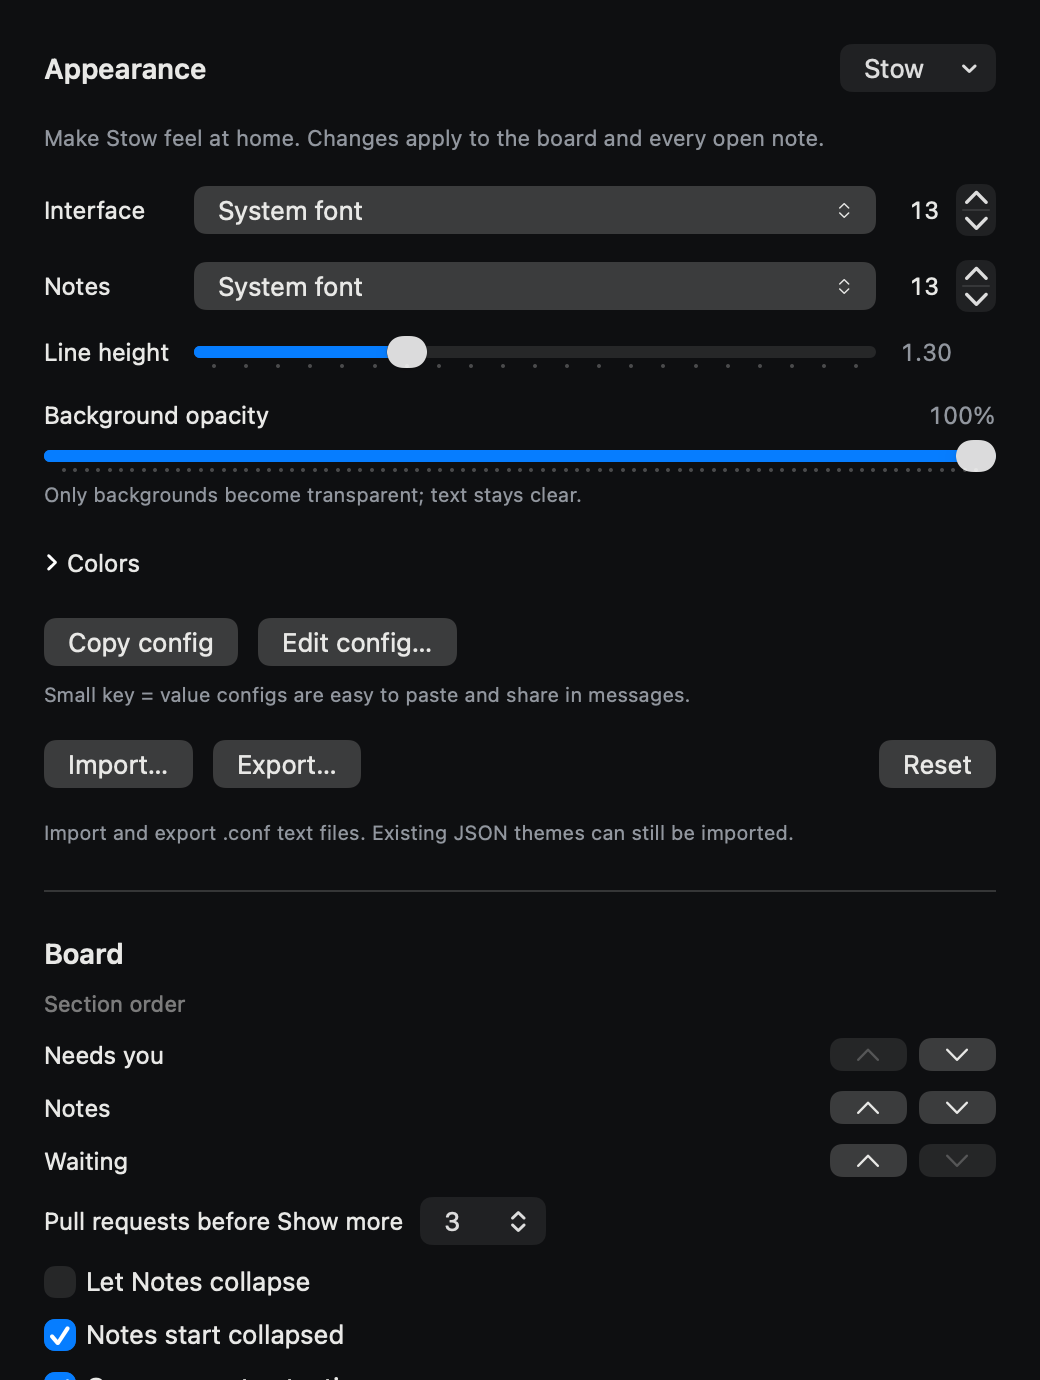
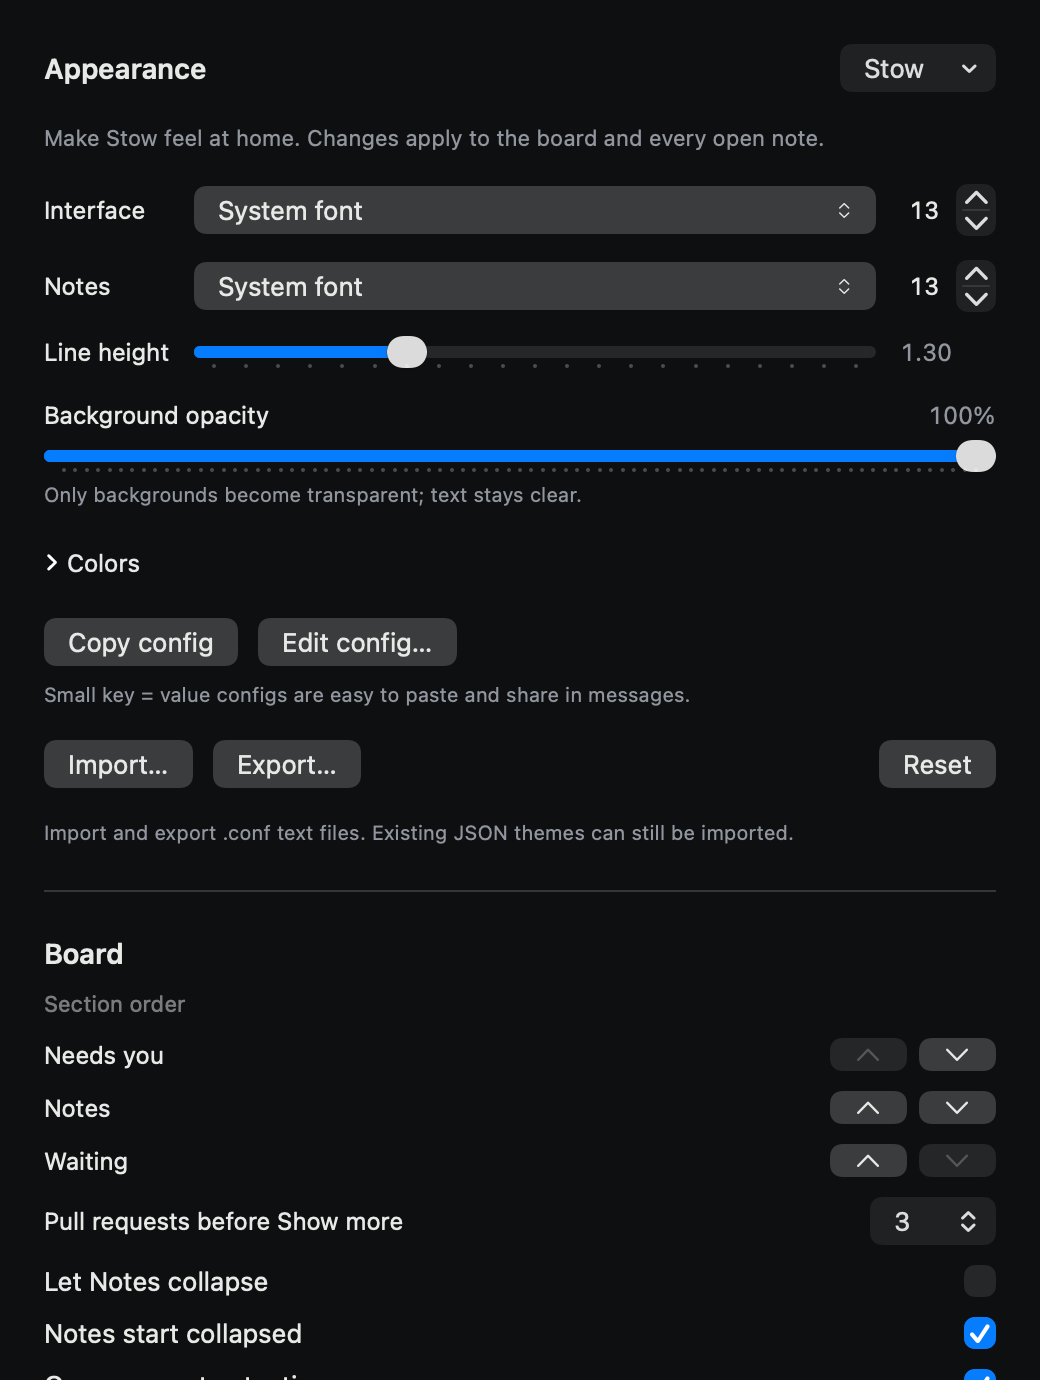
fix(settings): line checkboxes up on the right
Settings checkboxes and the Board card-count picker now sit on the right,
in the same column as the section order buttons. Clicking a label still
toggles its checkbox, and VoiceOver reads each checkbox by its label.

diff --git a/App/SettingsView.swift b/App/SettingsView.swift
@@ -14,7 +14,7 @@ struct SettingsView: View {
                 Divider()
                 VStack(alignment: .leading, spacing: 10) {
                     Text("GitHub").font(.stow(size: 14, weight: .semibold))
-                    Toggle(
+                    SettingsToggle(
                         "Show pull requests",
                         isOn: Binding(get: { store.state.githubEnabled }, set: { store.setGitHubEnabled($0) }))
                     Text("Uses your existing gh login. Notes work independently.").font(.stow(size: 11))
@@ -34,7 +34,7 @@ struct SettingsView: View {
                 Divider()
                 VStack(alignment: .leading, spacing: 10) {
                     Text("Accessories").font(.stow(size: 14, weight: .semibold))
-                    Toggle(
+                    SettingsToggle(
                         "Sample board accessory",
                         isOn: Binding(get: { store.sampleEnabled() }, set: { _ in store.toggleSample() }))
                     Text("A small bundled example. Note accessories can be enabled from each note’s actions menu.")
@@ -130,23 +130,27 @@ private struct BoardSettingsView: View {
                     }.disabled(index == layout.order.count - 1).accessibilityLabel("Move \(section.title) down")
                 }
             }
-            Picker(
-                "Pull requests before Show more",
-                selection: Binding(get: { layout.visiblePullRequests }, set: { store.setVisiblePullRequests($0) })
-            ) {
-                ForEach([3, 5, 10], id: \.self) { count in Text(verbatim: "\(count)").tag(count) }
-                Text("All").tag(0)
-                if ![0, 3, 5, 10].contains(layout.visiblePullRequests) {
-                    Text(verbatim: "\(layout.visiblePullRequests)").tag(layout.visiblePullRequests)
-                }
+            HStack {
+                Text("Pull requests before Show more")
+                Spacer()
+                Picker(
+                    "Pull requests before Show more",
+                    selection: Binding(get: { layout.visiblePullRequests }, set: { store.setVisiblePullRequests($0) })
+                ) {
+                    ForEach([3, 5, 10], id: \.self) { count in Text(verbatim: "\(count)").tag(count) }
+                    Text("All").tag(0)
+                    if ![0, 3, 5, 10].contains(layout.visiblePullRequests) {
+                        Text(verbatim: "\(layout.visiblePullRequests)").tag(layout.visiblePullRequests)
+                    }
+                }.labelsHidden().fixedSize()
             }.font(.stow(size: 12))
-            Toggle(
+            SettingsToggle(
                 "Let Notes collapse",
                 isOn: Binding(get: { layout.notesCanCollapse }, set: { store.setNotesCanCollapse($0) }))
-            Toggle(
+            SettingsToggle(
                 "Notes start collapsed",
                 isOn: Binding(get: { layout.notesStartCollapsed }, set: { store.setNotesStartCollapsed($0) }))
-            Toggle(
+            SettingsToggle(
                 "Open one note at a time",
                 isOn: Binding(get: { layout.oneNoteOpenAtATime }, set: { store.setOneNoteOpenAtATime($0) }))
             HStack {
@@ -158,5 +162,27 @@ private struct BoardSettingsView: View {
                 Button("Reset") { store.resetBoardLayout() }.disabled(layout == BoardLayout())
             }
         }
+    }
+}
+
+/// A setting's label on the left with its checkbox on the right, in line with the other Settings controls.
+private struct SettingsToggle: View {
+    let title: String
+    @Binding var isOn: Bool
+
+    init(_ title: String, isOn: Binding<Bool>) {
+        self.title = title
+        self._isOn = isOn
+    }
+
+    var body: some View {
+        HStack {
+            // The checkbox carries the label for VoiceOver; the visible text is a click target only.
+            Text(title).accessibilityHidden(true)
+            Spacer()
+            Toggle(title, isOn: $isOn).labelsHidden().toggleStyle(.checkbox)
+        }
+        .contentShape(Rectangle())
+        .onTapGesture { isOn.toggle() }
     }
 }
